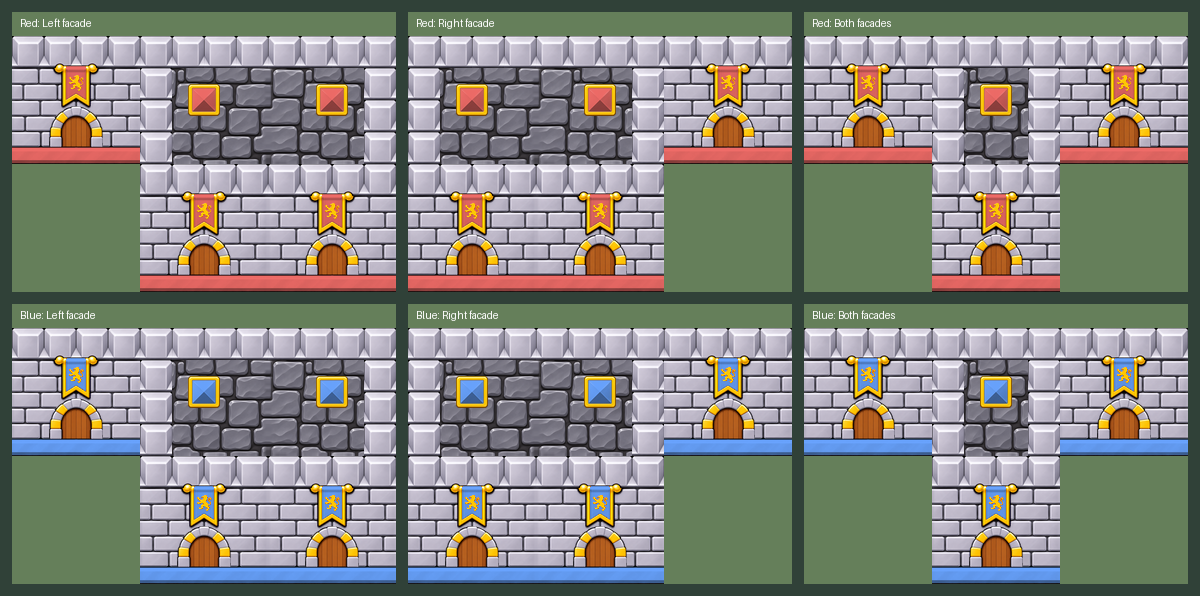
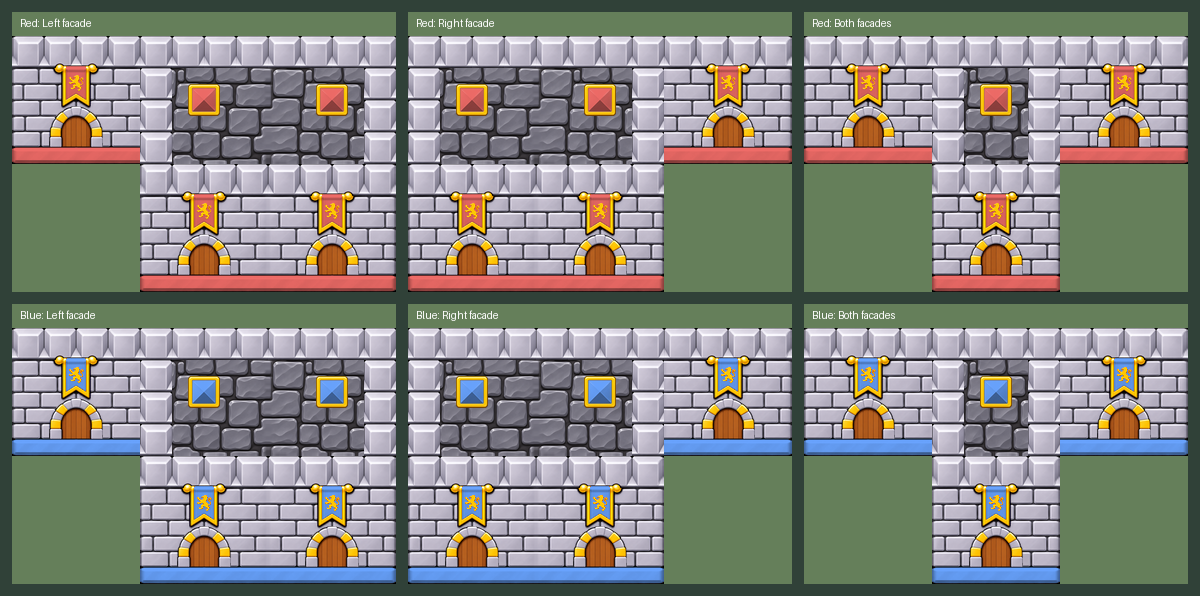
Finish horizontal castle facades at faction boundaries

diff --git a/scripts/art/build-game-pieces.py b/scripts/art/build-game-pieces.py
@@ -26,11 +26,13 @@ SOURCES = {
 
 NORTH, EAST, SOUTH, WEST = 1, 2, 4, 8  # Scenes/CastleTopology.cs
 DIRECTIONS = ((NORTH, 0, -1), (EAST, 1, 0), (SOUTH, 0, 1), (WEST, -1, 0))
-GATE_MASKS = (NORTH, EAST, WEST, NORTH | EAST, NORTH | WEST)
-PLAIN_MASKS = (EAST | WEST, NORTH | EAST | WEST)
+FACADE_BASES = {NORTH: NORTH, EAST: EAST, NORTH | EAST: EAST,
+                WEST: WEST, NORTH | WEST: WEST, EAST | WEST: EAST | WEST,
+                NORTH | EAST | WEST: EAST | WEST}
 PAVEMENT_COUNTS = {4: 10, 5: 8, 6: 7, 7: 4, 12: 7, 13: 4, 14: 4, 15: 0}
 TILE = 128
 BLOCK = 32
+ENDCAP_WIDTH = 8
 COLORS = ("#f06c68", "#69a4ff", "#59ca87", "#b48af5")
 
 
@@ -109,8 +111,31 @@ def match_edges(image, horizontal, vertical):
     return Image.fromarray(np.rint(pixels).astype(np.uint8))
 
 
-def facade_pair(sources):
-    master = sources["wall_ew_original.png"].resize((TILE, TILE), LANCZOS)
+def finish_facade_edges(production, original, exposed):
+    # Widen the original bevel slightly so it remains legible at gameplay scale.
+    weights = np.array([1, 1, 1, 0.9, 0.65, 0.35, 0.1, 0])
+    result = []
+    for layer, source in zip(production, original):
+        pixels = np.array(layer)
+        for side in exposed:
+            if side == WEST:
+                bevel = source.crop((0, 0, 5, TILE))
+                band = pixels[:, :ENDCAP_WIDTH]
+                blend = weights
+            else:
+                bevel = source.crop((TILE - 5, 0, TILE, TILE))
+                band = pixels[:, -ENDCAP_WIDTH:]
+                blend = weights[::-1]
+            bevel = np.asarray(bevel.resize((ENDCAP_WIDTH, TILE), Image.Resampling.BILINEAR))
+            blend = blend.reshape((1, ENDCAP_WIDTH) + (1,) * (band.ndim - 2))
+            band[:] = np.rint(band * (1 - blend) + bevel * blend)
+        result.append(Image.fromarray(pixels))
+    return tuple(result)
+
+
+def facades(sources):
+    original = sources["wall_ew_original.png"].resize((TILE, TILE), LANCZOS)
+    master = original.copy()
     # Remove the external bevel on the masonry and red strip so horizontal repeats meet.
     # Leave the four upper block bevels intact, as on the modular rampart.
     masonry = master.crop((3, 32, 125, TILE)).resize((TILE, TILE - 32), LANCZOS)
@@ -133,7 +158,14 @@ def facade_pair(sources):
     base, mask = faction_pair(master, allowed)
     gate = base.copy()
     gate.alpha_composite(door, (37, 70))
-    return (gate, mask), (base, mask)
+    gate_pair = gate, mask
+    original_pair = faction_pair(original, allowed)
+    return {
+        "wall-1": finish_facade_edges(gate_pair, original_pair, (WEST, EAST)),
+        "wall-2": finish_facade_edges(gate_pair, original_pair, (WEST,)),
+        "wall-8": finish_facade_edges(gate_pair, original_pair, (EAST,)),
+        "wall-10": (base, mask),
+    }
 
 
 def rampart_cells(mask):
@@ -146,7 +178,6 @@ def rampart_cells(mask):
 
 
 def build(sources):
-    gate, plain = facade_pair(sources)
     floor = match_edges(sources["wall_floor.png"].resize((TILE, TILE), LANCZOS), 5, 5)
     rampart = sources["wall_rampart_block.png"].resize((BLOCK, BLOCK), LANCZOS)
     crystal = isolate(sources["wall_crystal_original.png"])
@@ -165,8 +196,7 @@ def build(sources):
         "knight": fit_sprite(isolate(sources["knight_original.png"]), 100, tinted=True),
         "castle": fit_sprite(castle, 98, tinted=True, regions=banner_and_foundation),
         "grave": fit_sprite(isolate(sources["grave.png"]), 96, tinted=False),
-        f"wall-{NORTH}": gate,
-        f"wall-{EAST | WEST}": plain,
+        **facades(sources),
     }
     for topology, count in PAVEMENT_COUNTS.items():
         base = floor.copy()
@@ -182,15 +212,11 @@ def build(sources):
 def wall_key(topology):
     if topology == 0:
         return "castle"
-    if topology in GATE_MASKS:
-        return f"wall-{NORTH}"
-    if topology in PLAIN_MASKS:
-        return f"wall-{EAST | WEST}"
-    return f"wall-{topology}"
+    return f"wall-{FACADE_BASES.get(topology, topology)}"
 
 
 def verify(pairs):
-    if set(GATE_MASKS + PLAIN_MASKS) | PAVEMENT_COUNTS.keys() != set(range(1, 16)):
+    if FACADE_BASES.keys() | PAVEMENT_COUNTS.keys() != set(range(1, 16)):
         raise ValueError("Every nonzero cardinal configuration needs a texture pair")
     for key, layers in pairs.items():
         base = layers[0]
@@ -210,18 +236,34 @@ def verify(pairs):
     interior = np.asarray(pairs["wall-15"][0])
     if not (np.array_equal(interior[0], interior[-1]) and np.array_equal(interior[:, 0], interior[:, -1])):
         raise ValueError("Pavement edges do not match")
-    for gate, plain in zip(pairs["wall-1"], pairs["wall-10"]):
-        changed = np.argwhere(np.asarray(gate) != np.asarray(plain))
+    for standalone, left, right, plain in zip(*(pairs[f"wall-{key}"] for key in (1, 2, 8, 10))):
+        if not np.array_equal(np.asarray(plain)[BLOCK:, 0], np.asarray(plain)[BLOCK:, -1]):
+            raise ValueError("The middle façade masonry or foundation does not tile")
+        if not (np.array_equal(np.asarray(standalone)[:, :ENDCAP_WIDTH], np.asarray(left)[:, :ENDCAP_WIDTH])
+                and np.array_equal(np.asarray(standalone)[:, -ENDCAP_WIDTH:], np.asarray(right)[:, -ENDCAP_WIDTH:])):
+            raise ValueError("Standalone façade must use both endcaps")
+        if not (np.array_equal(np.asarray(left)[:, -ENDCAP_WIDTH:], np.asarray(plain)[:, -ENDCAP_WIDTH:])
+                and np.array_equal(np.asarray(right)[:, :ENDCAP_WIDTH], np.asarray(plain)[:, :ENDCAP_WIDTH])):
+            raise ValueError("Endpoint façades changed a continuing edge")
+        interior = (slice(None), slice(ENDCAP_WIDTH, TILE - ENDCAP_WIDTH))
+        gate = np.asarray(standalone)[interior]
+        if not (np.array_equal(gate, np.asarray(left)[interior]) and np.array_equal(gate, np.asarray(right)[interior])):
+            raise ValueError("Endpoint façades changed the gated interior")
+        if any(np.array_equal(np.asarray(standalone)[BLOCK:, side], np.asarray(plain)[BLOCK:, side])
+               for side in (slice(ENDCAP_WIDTH), slice(-ENDCAP_WIDTH, None))):
+            raise ValueError("A terminal bevel matches a continuing edge")
+        changed = np.argwhere(gate != np.asarray(plain)[interior])
         if changed.size and (changed[:, 0].min() < 70 or changed[:, 0].max() > 110
-                             or changed[:, 1].min() < 37 or changed[:, 1].max() > 90):
+                             or changed[:, 1].min() + ENDCAP_WIDTH < 37
+                             or changed[:, 1].max() + ENDCAP_WIDTH > 90):
             raise ValueError("Gate and uninterrupted façade differ outside the doorway")
 
 
 def write_assets(pairs, directory):
     for key, layers in pairs.items():
         names = ["grave.png"] if key == "grave" else [f"{key}_base.png"]
-        # The gate shares its common façade tint. All eight crystal masks are identical.
-        if key in ("knight", "castle", "wall-10", "wall-15"):
+        # All eight crystal masks are identical. Façade masks include their terminal trim.
+        if key in ("knight", "castle", "wall-1", "wall-2", "wall-8", "wall-10", "wall-15"):
             names.append(f"{key}_mask.png")
         for name, layer in zip(names, layers):
             layer.save(directory / name, optimize=True)
@@ -302,6 +344,25 @@ def review_sheets(pairs, directory):
         raise ValueError(f"Assembly fixtures missed {set(range(1, 16)) - seen}")
 
     margin = 12
+    facade_width = 6 * TILE
+    facade_rows = (
+        ("Same-faction wall: continuous masonry and foundation", ("RRRRRR",)),
+        ("Adjacent fortresses: red and blue terminate at the center", ("RRRBBB", "RRRBBB")),
+    )
+    facade_review = Image.new("RGB", (facade_width + 2 * margin, 4 * TILE + 48 + 5 * margin), "#304138")
+    draw = ImageDraw.Draw(facade_review)
+    labels = ("E: left end", "EW: middle", "W: right end", "N: both ends")
+    for column, (key, label) in enumerate(zip((2, 10, 8, 1), labels)):
+        x = margin + column * (facade_width - TILE) // 3
+        draw.text((x, margin), label, fill="white")
+        facade_review.paste(preview_tint(pairs[f"wall-{key}"], COLORS[0]), (x, margin + 16))
+    y = TILE + 3 * margin
+    for label, layout in facade_rows:
+        sheet, _ = preview_assembly(pairs, label, layout)
+        facade_review.paste(sheet, (margin, y))
+        y += sheet.height + margin
+    facade_review.save(directory / "assemblies-facades.png")
+
     width = 9 * TILE + 4 * margin
     top_height = 3 * TILE + 24
     irregular = Image.new("RGB", (width, top_height + 4 * TILE + 24 + 3 * margin), "#304138")
@@ -310,6 +371,17 @@ def review_sheets(pairs, directory):
     irregular.paste(assemblies["Irregular"], (margin, top_height + 2 * margin))
     irregular.paste(assemblies["Opposing factions"], (5 * TILE + 2 * margin, top_height + 2 * margin))
     irregular.save(directory / "assemblies-irregular.png")
+
+    top_height = assemblies["3 x 3"].height
+    large = assemblies["Large rectangle"]
+    fortress_review = Image.new("RGB", (6 * TILE + 4 * margin, top_height + large.height + 3 * margin), "#304138")
+    x = margin
+    for label in ("Vertical", "2 x 2", "3 x 3"):
+        panel = assemblies[label]
+        fortress_review.paste(panel, (x, margin))
+        x += panel.width + margin
+    fortress_review.paste(large, (margin, top_height + 2 * margin))
+    fortress_review.save(directory / "assemblies-fortresses.png")
 
     row_height = 2 * TILE + 24
     transitions = Image.new("RGB", (width, 2 * row_height + 3 * margin), "#304138")

diff --git a/Tests/Presentation/CastleTopologyTests.cs b/Tests/Presentation/CastleTopologyTests.cs
@@ -6,18 +6,35 @@ namespace CastrumTactics.Presentation.Tests;
 public sealed class CastleTopologyTests
 {
     [Fact]
-    public void CastleArtworkUsesTwoFacadesAndOneSharedCrystalMask()
+    public void CastleArtworkUsesFourFacadesAndOneSharedCrystalMask()
     {
         (int Base, int Tint)[] expected =
         [
-            (1, 10), (1, 10), (1, 10), (4, 15), (5, 15),
-            (6, 15), (7, 15), (1, 10), (1, 10), (10, 10),
+            (1, 1), (2, 2), (2, 2), (4, 15), (5, 15),
+            (6, 15), (7, 15), (8, 8), (8, 8), (10, 10),
             (10, 10), (12, 15), (13, 15), (14, 15), (15, 15),
         ];
         for (int mask = 1; mask <= expected.Length; mask++)
         {
             Assert.Equal(expected[mask - 1], BoardRenderer.GetWallArtworkMasks(mask));
         }
+    }
+
+    [Fact]
+    public void OpposingFortressesTerminateWhereTheirFacadeRowsTouch()
+    {
+        var one = new CellState(TerrainType.Playable, PieceType.Castle, PlayerId.PlayerOne, 3);
+        var two = new CellState(TerrainType.Playable, PieceType.Castle, PlayerId.PlayerTwo, 3);
+        int[] expected = [2, 10, 8, 2, 10, 8];
+        for (int x = 0; x < expected.Length; x++)
+        {
+            var position = new BoardPosition(x, 1);
+            PlayerId owner = x < 3 ? PlayerId.PlayerOne : PlayerId.PlayerTwo;
+            int artwork = CastleTopology.ArtworkMask(position, owner, 6, 2, At);
+            Assert.Equal((expected[x], expected[x]), BoardRenderer.GetWallArtworkMasks(artwork));
+        }
+
+        CellState At(BoardPosition position) => position.X < 3 ? one : two;
     }
 
     [Theory]

diff --git a/Scenes/BoardRenderer.cs b/Scenes/BoardRenderer.cs
@@ -459,10 +459,12 @@ public partial class BoardRenderer : Control
         return art;
     }
 
-    // Group the two façades by doorway. All south-connected bases share the centered crystal mask.
+    // Façades use the horizontal friendly connections. Roofs share the centered crystal mask.
     internal static (int Base, int Tint) GetWallArtworkMasks(int mask) => mask switch
     {
-        1 or 2 or 3 or 8 or 9 => (1, 10),
+        1 => (1, 1),
+        2 or 3 => (2, 2),
+        8 or 9 => (8, 8),
         10 or 11 => (10, 10),
         _ => (mask, 15),
     };

diff --git a/Documentation/BoardArtVerification.md b/Documentation/BoardArtVerification.md
@@ -29,7 +29,9 @@ Isolation clears alpha below 8 and crops to the surviving silhouette before sizi
 
 | Artwork mask | Base | Tint | Ramparts |
 | --- | --- | --- | --- |
-| N (1), E (2), NE (3), W (8), NW (9) | 1, gate | 10 | Façade row |
+| N (1) | 1, gated, both ends finished | 1 | Façade row |
+| E (2), NE (3) | 2, gated, left end finished | 2 | Façade row |
+| W (8), NW (9) | 8, gated, right end finished | 8 | Façade row |
 | EW (10), NEW (11) | 10, uninterrupted | 10 | Façade row |
 | S (4) | 4 | 15 | N, E, W · 10 blocks |
 | NS (5) | 5 | 15 | E, W · 8 blocks |
@@ -42,7 +44,9 @@ Isolation clears alpha below 8 and crops to the surviving silhouette before sizi
 
 Roofs evaluate their east and west edges independently. A side gets a rampart if there is no friendly castle on that side or the friendly neighbor has no southward castle connection and therefore displays a façade. For artwork lookup, clear that side bit on the roof. The north edge still uses the roof’s northward connection. The existing pre-composed bases already cover every resulting combination, including two side ramparts. They reuse the same crystal mask, so the cache needs no extra textures, layers or draw calls. The renderer re-evaluates the layout on each new board snapshot, including when a diagonal castle changes a neighboring façade into a roof.
 
-Both façades use the uninterrupted source for all four upper blocks, masonry, banner and foundation. Processing narrows the lower façade crop to columns `[3, 125)` at 128 px, refits it to the full width, and feathers the horizontal edges over three texels. A traced arch from the gate source at `(142, 266, 356, 435)` in the script’s 500 × 500 working image is resampled to 54 × 41 and overlaid at `(37, 70)`. The common ramparts, edges, banner and foundation align across both variants.
+The seamless base uses the uninterrupted source for all four upper blocks, masonry, banner and foundation. Processing narrows the lower façade crop to columns `[3, 125)` at 128 px, refits it to the full width, and feathers the horizontal edges over three texels. A traced arch from the gate source at `(142, 266, 356, 435)` in the script’s 500 × 500 working image is resampled to 54 × 41 and overlaid at `(37, 70)`.
+
+The endcaps restore the original artwork’s outer bevels to the exposed sides of the production gate. The outer five source columns expand to an eight-texel blend band, with matching treatment on the tint mask. This preserves the banner, doorway, masonry courses, rampart grid and connected edges. The façade continues only toward friendly castles, so opposing factions meeting along a horizontal wall show two finished edges. The owner approved the endcaps after reviewing the preview sheet.
 
 Pavement’s raw mean absolute edge jumps were 20.25 RGB levels north–south and 13.77 east–west at 128 px, compared with 16.06 and 8.98 between average interior neighbors. The script feathers both sides toward the mean of their border pixels over five texels with a cosine taper. The opposite border rows and columns match exactly after correction. Interior cobblestones retain their pattern. The nonrotated 32 × 32 rampart block fills one cell of the 4 × 4 grid. Corners shared by two exposed edges receive a single block. The 32 × 32 crystal, including its gold frame, is isolated from source alpha, centered at `(48, 48)` and baked into all eight otherwise opaque compositions. Its shared mask affects the gemstone.
 
@@ -57,14 +61,14 @@ python scripts/art/build-game-pieces.py $sources
 python scripts/art/build-game-pieces.py $sources --check --previews exports/10c1/previews
 ```
 
-The check validates source checksums, output dimensions and alpha, mask coverage within the sprite silhouette, all 15 cardinal configurations, rampart counts, matching pavement borders, and façade differences confined to the doorway. It regenerates PNGs in a temporary directory and compares bytes with production. The generated previews cover both default faction colors and representative green and violet tints.
+The check validates source checksums, output dimensions and alpha, mask coverage within the sprite silhouette, all 15 cardinal configurations, rampart counts, and matching pavement borders. It also checks that the façade variants preserve their shared continuing edges and that differences are confined to the doorway and terminal bands. It regenerates PNGs in a temporary directory and compares bytes with production. The generated previews cover both default faction colors and representative green and violet tints.
 
 ### Review images
 
 | Evidence | Coverage |
 | --- | --- |
 | [Faction colors](assets/10c1/faction-colors.png) and [connectivity](assets/10c1/connectivity.png) | Base and mask alignment, four color samples, all 15 connected configurations and the singleton. |
-| [Horizontal façades](assets/10c1/assemblies-facades.png) | E–W, E–EW–W and E–EW–EW–EW–W at native texel size. |
+| [Horizontal façade endcaps](assets/10c1/assemblies-facades.png) | Individual façade variants, a continuous six-tile wall, and directly adjacent red and blue fortresses at native texel size. |
 | [Vertical and rectangular fortresses](assets/10c1/assemblies-fortresses.png) | S–NS–N, 2 × 2, 3 × 3 and 5 × 4. The 3 × 3 upper, middle and lower rows are ES–ESW–SW, NES–NESW–NSW and NE–NEW–NW. |
 | [Irregular formations](assets/10c1/assemblies-irregular.png) and [façade transitions](assets/10c1/assemblies-facade-transitions.png) | L, T, cross, irregular cluster and adjacent opposing factions. The focused sheet shows left, right and bilateral ramparts in red and blue at native texel size. |
 | [Godot fortifications](assets/10c1/fortifications.png) and [alternate shader colors](assets/10c1/fortifications-alternate.png) | A temporary review fixture applied all 16 castle masks through the production board renderer and checked the bound base and tint resources. Both default shader colors and `#59ca87` / `#b48af5` were rendered. |

diff --git a/Documentation/VisualArchitecture.md b/Documentation/VisualArchitecture.md
@@ -45,7 +45,7 @@ Unknown fields, duplicate entries, invalid dimensions, out-of-range cells, and i
 
 BoardGeometry defines shared square cells, bounds, margins, sprite fitting and the right/bottom shared-edge convention. Input converts a viewport point through Godot's inverse canvas transform before testing these cells. The preview uses its own fit rectangle with the same geometry. It displays intact terrain, accents and starts using the selected map’s visual descriptors.
 
-10D can apply one board-content transform and its inverse to both drawing and input. Keep the score and controls in fit space, and suppress taps from recognized gestures. The current board uses fit geometry. Tall props will need tile footprints and an explicit occlusion policy before adoption. CastleTopology derives N/E/S/W bits 0–3 from orthogonally adjacent same-owner castles on the final board. Mask zero uses the padded singleton. Nonzero masks occupy the full square, with the two façade bases or one of eight pavement bases selected by the presentation lookup. A pavement tile also selects a side rampart where it meets a friendly façade. The two façades share one tint texture and all pavement bases share the centered crystal tint. Offline composition keeps each occupied cell at one sprite using the existing faction shader. [Assembly mapping](BoardArtVerification.md#connected-castle-assembly)
+10D can apply one board-content transform and its inverse to both drawing and input. Keep the score and controls in fit space, and suppress taps from recognized gestures. The current board uses fit geometry. Tall props will need tile footprints and an explicit occlusion policy before adoption. CastleTopology derives N/E/S/W bits 0–3 from orthogonally adjacent same-owner castles on the final board. Mask zero uses the padded singleton. Nonzero masks occupy the full square, with one of four façade bases or one of eight pavement bases selected by the presentation lookup. A façade terminates wherever it lacks a friendly horizontal connection. A pavement tile also selects a side rampart where it meets a friendly façade. Façades have matching tint masks and all pavement bases share the centered crystal tint. Offline composition keeps each occupied cell at one sprite using the existing faction shader. [Assembly mapping](BoardArtVerification.md#connected-castle-assembly)
 
 Assets stay in their existing `Assets/Sprites` and `Shaders` paths. Keep sidecar IDs independent of filenames. Introduce cached resources for new art by role (terrain, edges, props, pieces, chrome, effects) and preserve their Godot UIDs. Faction textures and alpha masks remain paired. The terrain cache loads on demand, with shared linear sampling for the new terrain and aligned base/mask pairs. [Art direction and provenance](ArtDirection.md)
 

diff --git a/Documentation/DecisionLog.md b/Documentation/DecisionLog.md
@@ -23,6 +23,7 @@ The linked records carry the original rationale and evidence. Add durable decisi
 | Planned for 10C.1 | Review owner-approved source assets by family and build cardinal terrain connections where required. | Keep the accepted 10B architecture and review integrated art before proceeding to the next family. [Visual roadmap](VisualDevelopmentRoadmap.md#10c1--artwork-refinement-and-terrain-autotiling) |
 | Approved for 10C.1a–10C.1d | Use the supplied game piece art with gold lion heraldry, source-derived masks and a neutral grave with dirt and no vegetation. | Retain the approved originals as ten flat PNGs in the external asset directory. Integrated art awaits owner in-game acceptance. [Source and verification](BoardArtVerification.md#10c1a10c1d--approved-game-piece-artwork) |
 | Approved for 10C.1c | Fill connected castle tiles from five approved source graphics. Seven cardinal configurations share two south-facing façades. Roofs use pavement, a crystal and upright rampart blocks on a 4 × 4 grid, with side ramparts where roofs meet façades. | Gate presence distinguishes terminal façades. Offline composition preserves one sprite per castle, with shared masks and materials for equivalent artwork. [Assembly mapping](BoardArtVerification.md#connected-castle-assembly) |
+| Approved for 10C.1c | Add independent left and right façade endcaps at horizontal edges without a friendly castle connection. | The bevels come from the approved wall artwork. The owner accepted the endpoint art after reviewing opposing fortress boundaries and same-faction seams. [Endcap sheet](assets/10c1/assemblies-facades.png) |
 | Approved for deferred exploration | Explore optional starting damage on playable terrain in a future map format and editor. | Preserve existing maps and the renderer’s empty-square damage cues. Review competitive fairness and CPU behavior before adoption. Milestone 10 has no implementation requirement for this idea. [Deferred map idea](MapFormat.md#deferred-initial-ground-health) |
 | Owner proposals for deferred exploration | Explore Swamp, Magma Field and Poison Swamp with a composable terrain property model that separates artwork from mechanics. | Preserve existing maps and rulesets. Evaluate special terrain in experimental and casual maps before considering competitive eligibility. Resolution timing, draft interactions, player cues and CPU evaluation remain open. [Deferred special terrain mechanics](GameDesign.md#deferred-special-terrain-mechanics) |
 | Proposed | Explore explicit multi-front planning and alternative large-board coverage. | The size study cannot attribute its mixed large-board results to multi-front weakness. [Battlefield size study](BattlefieldBalance.md#battlefield-size-and-stronger-policy-consistency) |

diff --git a/Documentation/VisualDevelopmentRoadmap.md b/Documentation/VisualDevelopmentRoadmap.md
@@ -28,7 +28,7 @@ The owner tested 10B on Windows and accepted its rendering and asset architectur
 
 1. 10C.1a implements the knight with tintable red livery and gold lion heraldry.
 2. 10C.1b implements the singleton castle with a source-derived mask for the banner and foundation.
-3. 10C.1c implements full-tile connected castles assembled offline from two façades, a rampart block, pavement and a faction crystal. Roof tiles add a side rampart at each adjoining friendly façade.
+3. 10C.1c implements full-tile connected castles assembled offline from façade art, a rampart block, pavement and a faction crystal. Roof tiles add a side rampart at each adjoining friendly façade. The owner approved the horizontal façade endcaps that distinguish opposing fortresses.
 4. 10C.1d implements the neutral grave with surrounding dirt and no vegetation.
 5. 10C.1e covers playable ground and damage.
 6. 10C.1f covers forest and mountain autotiles.
